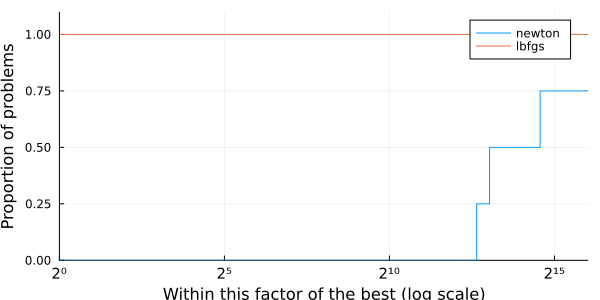
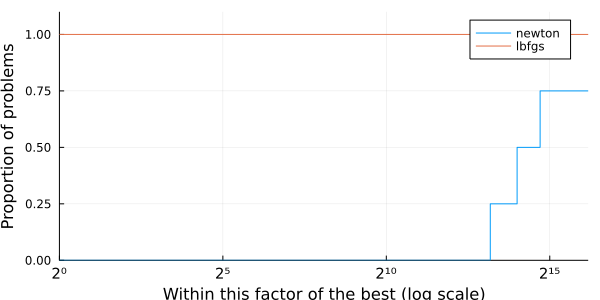
Deploying to gh-pages from  @ 1dd83cb7e39a2419197b64d9a6d817287111909b 🚀

diff --git a/index.html b/index.html
@@ -8,7 +8,7 @@ contour&#40;-2:0.02:2, -0.5:0.02:1.5, &#40;x,y&#41; -&gt; &#40;x - 1&#41;^2 &#43
 nlp &#61; ADNLPModel&#40;
   x -&gt; &#40;x&#91;1&#93; - 1&#41;^2 &#43; 4 * &#40;x&#91;2&#93; - x&#91;1&#93;^2&#41;^2, # function
   &#91;-1.2; 1.0&#93; # starting point
-&#41;</code></pre><pre><code class="plaintext code-output">ADNLPModel - Model with automatic differentiation backend ADNLPModels.ForwardDiffAD{ForwardDiff.GradientConfig{ForwardDiff.Tag{var"#3#4", Float64}, Float64, 2, Vector{ForwardDiff.Dual{ForwardDiff.Tag{var"#3#4", Float64}, Float64, 2}}}}(3, 0, ForwardDiff.GradientConfig{ForwardDiff.Tag{var"#3#4", Float64}, Float64, 2, Vector{ForwardDiff.Dual{ForwardDiff.Tag{var"#3#4", Float64}, Float64, 2}}}((Partials(1.0, 0.0), Partials(0.0, 1.0)), ForwardDiff.Dual{ForwardDiff.Tag{var"#3#4", Float64}, Float64, 2}[Dual{ForwardDiff.Tag{var"#3#4", Float64}}(0.0,6.9130922375004e-310,6.91309222885307e-310), Dual{ForwardDiff.Tag{var"#3#4", Float64}}(0.0,6.91309231304423e-310,6.91309231304423e-310)]))
+&#41;</code></pre><pre><code class="plaintext code-output">ADNLPModel - Model with automatic differentiation backend ADNLPModels.ForwardDiffAD{ForwardDiff.GradientConfig{ForwardDiff.Tag{var"#3#4", Float64}, Float64, 2, Vector{ForwardDiff.Dual{ForwardDiff.Tag{var"#3#4", Float64}, Float64, 2}}}}(3, 0, ForwardDiff.GradientConfig{ForwardDiff.Tag{var"#3#4", Float64}, Float64, 2, Vector{ForwardDiff.Dual{ForwardDiff.Tag{var"#3#4", Float64}, Float64, 2}}}((Partials(1.0, 0.0), Partials(0.0, 1.0)), ForwardDiff.Dual{ForwardDiff.Tag{var"#3#4", Float64}, Float64, 2}[Dual{ForwardDiff.Tag{var"#3#4", Float64}}(0.0,6.90150129487054e-310,6.9015012862232e-310), Dual{ForwardDiff.Tag{var"#3#4", Float64}}(0.0,6.90150129487054e-310,6.9015017897362e-310)]))
   Problem name: Generic
    All variables: ████████████████████ 2      All constraints: ⋅⋅⋅⋅⋅⋅⋅⋅⋅⋅⋅⋅⋅⋅⋅⋅⋅⋅⋅⋅ 0     
             free: ████████████████████ 2                 free: ⋅⋅⋅⋅⋅⋅⋅⋅⋅⋅⋅⋅⋅⋅⋅⋅⋅⋅⋅⋅ 0     
@@ -73,8 +73,8 @@ while &#33;issuccess&#40;factor&#41;
   factor &#61; cholesky&#40;B &#43; ρ * I, check&#61;false&#41;
 end
 d &#61; factor \ -grad&#40;nlp, x&#41;</code></pre><pre><code class="plaintext code-output">2-element Vector{Float64}:
-  0.4867256637168144
- -0.7281415929203545</code></pre>
+  0.48672566371681447
+ -0.7281415929203547</code></pre>
 <p>The second part of our method is the step length computation. Let&#39;s use <code>α &#61; 1e-2</code> for our Armijo parameter.</p>
 <pre><code class=language-julia >α &#61; 1e-2
 t &#61; 1.0
@@ -247,7 +247,7 @@ print&#40;output&#41;</code></pre><pre><code class="plaintext code-output">Gener
   dual feasibility: 4.018046284781729e-9
   solution: [0.9999999986742657  0.9999999970013461]
   iterations: 18
-  elapsed time: 7.414817810058594e-5
+  elapsed time: 4.696846008300781e-5
 </code></pre>
 <p>And to compare both solvers, we need a collection of problems. Let&#39;s just create one manually for now.</p>
 <pre><code class=language-julia >problems &#61; &#91;
@@ -265,18 +265,18 @@ stats &#61; bmark_solvers&#40;solvers, problems&#41;</code></pre><pre><code clas
  Row │ id     name     nvar   ncon   nequ   status       objective     elapsed_time  iter   dual_feas  primal_feas  neval_obj  neval_grad  neval_cons  neval_cons_lin  neval_cons_nln  neval_jcon  neval_jgrad  neval_jac  neval_jac_lin  neval_jac_nln  neval_jprod  neval_jprod_lin  neval_jprod_nln  neval_jtprod  neval_jtprod_lin  neval_jtprod_nln  neval_hess  neval_hprod  neval_jhess  neval_jhprod  neval_residual  neval_jac_residual  neval_jprod_residual  neval_jtprod_residual  neval_hess_residual  neval_jhess_residual  neval_hprod_residual  extrainfo
      │ Int64  String   Int64  Int64  Int64  Symbol       Float64       Float64       Int64  Float64    Float64      Int64      Int64       Int64       Int64           Int64           Int64       Int64        Int64      Int64          Int64          Int64        Int64            Int64            Int64         Int64             Int64             Int64       Int64        Int64        Int64         Int64           Int64               Int64                 Int64                  Int64                Int64                 Int64                 String
 ─────┼────────────────────────────────────────────────────────────────────────────────────────────────────────────────────────────────────────────────────────────────────────────────────────────────────────────────────────────────────────────────────────────────────────────────────────────────────────────────────────────────────────────────────────────────────────────────────────────────────────────────────────────────────────────────────────────────────────────────────────────────────────────────────────────────────────────────────────────────────
-   1 │     1  Generic      2      0      0  first_order   2.46519e-31      0.469915      1        Inf          0.0          3           4           0               0               0           0            0          0              0              0            0                0                0             0                 0                 0           1            0            0             0               0                   0                     0                      0                    0                     0                     0
-   2 │     2  Generic      2      0      0  first_order   3.74398e-21      0.544732     21        Inf          0.0         50          64           0               0               0           0            0          0              0              0            0                0                0             0                 0                 0          21            0            0             0               0                   0                     0                      0                    0                     0                     0
-   3 │     3  Generic      2      0      0  max_iter     -8.36356          0.466384    100        Inf          0.0        201         301           0               0               0           0            0          0              0              0            0                0                0             0                 0                 0         100            0            0             0               0                   0                     0                      0                    0                     0                     0
-   4 │     4  Generic      2      0      0  first_order   1.43195          0.508618      5        Inf          0.0         12          16           0               0               0           0            0          0              0              0            0                0                0             0                 0                 0           5            0            0             0               0                   0                     0                      0                    0                     0                     0
+   1 │     1  Generic      2      0      0  first_order   2.46519e-31      0.44165       1        Inf          0.0          3           4           0               0               0           0            0          0              0              0            0                0                0             0                 0                 0           1            0            0             0               0                   0                     0                      0                    0                     0                     0
+   2 │     2  Generic      2      0      0  first_order   3.74398e-21      0.54885      21        Inf          0.0         50          64           0               0               0           0            0          0              0              0            0                0                0             0                 0                 0          21            0            0             0               0                   0                     0                      0                    0                     0                     0
+   3 │     3  Generic      2      0      0  max_iter     -8.36356          0.441988    100        Inf          0.0        201         301           0               0               0           0            0          0              0              0            0                0                0             0                 0                 0         100            0            0             0               0                   0                     0                      0                    0                     0                     0
+   4 │     4  Generic      2      0      0  first_order   1.43195          0.477506      5        Inf          0.0         12          16           0               0               0           0            0          0              0              0            0                0                0             0                 0                 0           5            0            0             0               0                   0                     0                      0                    0                     0                     0
   :lbfgs => 4×39 DataFrame
  Row │ id     name     nvar   ncon   nequ   status       objective     elapsed_time  iter   dual_feas   primal_feas  neval_obj  neval_grad  neval_cons  neval_cons_lin  neval_cons_nln  neval_jcon  neval_jgrad  neval_jac  neval_jac_lin  neval_jac_nln  neval_jprod  neval_jprod_lin  neval_jprod_nln  neval_jtprod  neval_jtprod_lin  neval_jtprod_nln  neval_hess  neval_hprod  neval_jhess  neval_jhprod  neval_residual  neval_jac_residual  neval_jprod_residual  neval_jtprod_residual  neval_hess_residual  neval_jhess_residual  neval_hprod_residual  extrainfo
      │ Int64  String   Int64  Int64  Int64  Symbol       Float64       Float64       Int64  Float64     Float64      Int64      Int64       Int64       Int64           Int64           Int64       Int64        Int64      Int64          Int64          Int64        Int64            Int64            Int64         Int64             Int64             Int64       Int64        Int64        Int64         Int64           Int64               Int64                 Int64                  Int64                Int64                 Int64                 String
 ─────┼─────────────────────────────────────────────────────────────────────────────────────────────────────────────────────────────────────────────────────────────────────────────────────────────────────────────────────────────────────────────────────────────────────────────────────────────────────────────────────────────────────────────────────────────────────────────────────────────────────────────────────────────────────────────────────────────────────────────────────────────────────────────────────────────────────────────────────────────────────
-   1 │     1  Generic      2      0      0  first_order   2.26824e-16    5.60284e-5      8  5.28297e-8          0.0         11          10           0               0               0           0            0          0              0              0            0                0                0             0                 0                 0           0            0            0             0               0                   0                     0                      0                    0                     0                     0
-   2 │     2  Generic      2      0      0  first_order   1.44561e-17    8.51154e-5     39  8.41132e-8          0.0         52          45           0               0               0           0            0          0              0              0            0                0                0             0                 0                 0           0            0            0             0               0                   0                     0                      0                    0                     0                     0
-   3 │     3  Generic      2      0      0  first_order  -8.37235        2.5034e-5      12  1.60958e-9          0.0         17          15           0               0               0           0            0          0              0              0            0                0                0             0                 0                 0           0            0            0             0               0                   0                     0                      0                    0                     0                     0
-   4 │     4  Generic      2      0      0  first_order   1.43195        2.09808e-5      9  4.18646e-9          0.0         11          11           0               0               0           0            0          0              0              0            0                0                0             0                 0                 0           0            0            0             0               0                   0                     0                      0                    0                     0                     0</code></pre>
+   1 │     1  Generic      2      0      0  first_order   2.26824e-16    2.69413e-5      8  5.28297e-8          0.0         11          10           0               0               0           0            0          0              0              0            0                0                0             0                 0                 0           0            0            0             0               0                   0                     0                      0                    0                     0                     0
+   2 │     2  Generic      2      0      0  first_order   1.44561e-17    5.91278e-5     39  8.41132e-8          0.0         52          45           0               0               0           0            0          0              0              0            0                0                0             0                 0                 0           0            0            0             0               0                   0                     0                      0                    0                     0                     0
+   3 │     3  Generic      2      0      0  first_order  -8.37235        2.19345e-5     12  1.60958e-9          0.0         17          15           0               0               0           0            0          0              0              0            0                0                0             0                 0                 0           0            0            0             0               0                   0                     0                      0                    0                     0                     0
+   4 │     4  Generic      2      0      0  first_order   1.43195        1.78814e-5      9  4.18646e-9          0.0         11          11           0               0               0           0            0          0              0              0            0                0                0             0                 0                 0           0            0            0             0               0                   0                     0                      0                    0                     0                     0</code></pre>
 <p>The results is a Dictionary of Symbols to DataFrame tables.</p>
 <pre><code class=language-julia >@show typeof&#40;stats&#41;
 @show keys&#40;stats&#41;</code></pre><pre><code class="plaintext code-output">typeof(stats) = Dict{Symbol, DataFrames.DataFrame}
@@ -287,10 +287,10 @@ keys(stats) = [:newton, :lbfgs]
 pretty_stats&#40;stats&#91;:newton&#93;&#91;&#33;, cols&#93;&#41;</code></pre><pre><code class="plaintext code-output">┌─────────┬─────────────┬───────────┬──────────────┬────────┐
 │    name │      status │ objective │ elapsed_time │   iter │
 ├─────────┼─────────────┼───────────┼──────────────┼────────┤
-│ Generic │ first_order │  2.47e-31 │     4.70e-01 │      1 │
-│ Generic │ first_order │  3.74e-21 │     5.45e-01 │     21 │
-│ Generic │    max_iter │ -8.36e+00 │     4.66e-01 │    100 │
-│ Generic │ first_order │  1.43e+00 │     5.09e-01 │      5 │
+│ Generic │ first_order │  2.47e-31 │     4.42e-01 │      1 │
+│ Generic │ first_order │  3.74e-21 │     5.49e-01 │     21 │
+│ Generic │    max_iter │ -8.36e+00 │     4.42e-01 │    100 │
+│ Generic │ first_order │  1.43e+00 │     4.78e-01 │      5 │
 └─────────┴─────────────┴───────────┴──────────────┴────────┘
 </code></pre>
 <p>We can also create a similar table in .tex format, using something like</p>
@@ -496,7 +496,7 @@ performance_profile&#40;stats, cost&#41;</code></pre>
     <footer class=footer >
       <div class="content has-text-centered is-small">
         &copy; Abel Soares Siqueira. <br>
-        Last modified: July 10, 2022.<br>
+        Last modified: July 17, 2022.<br>
         <a class=link  href="https://github.com/JuliaSmoothOptimizers/">JSO at GitHub</a>
       </div>
     </footer>
